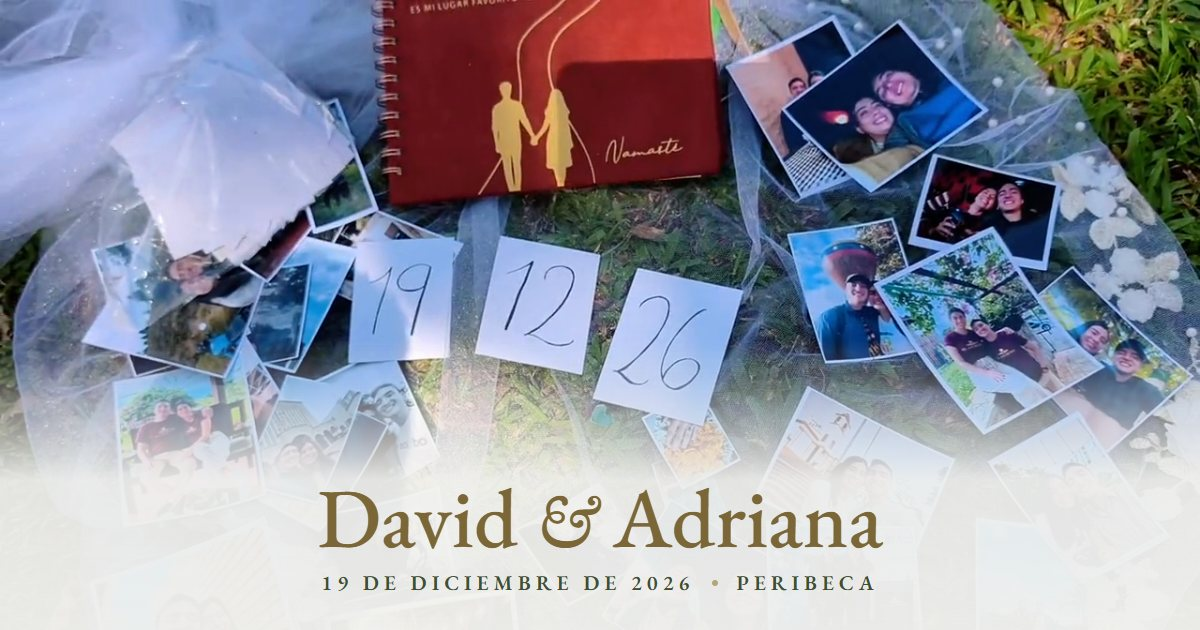
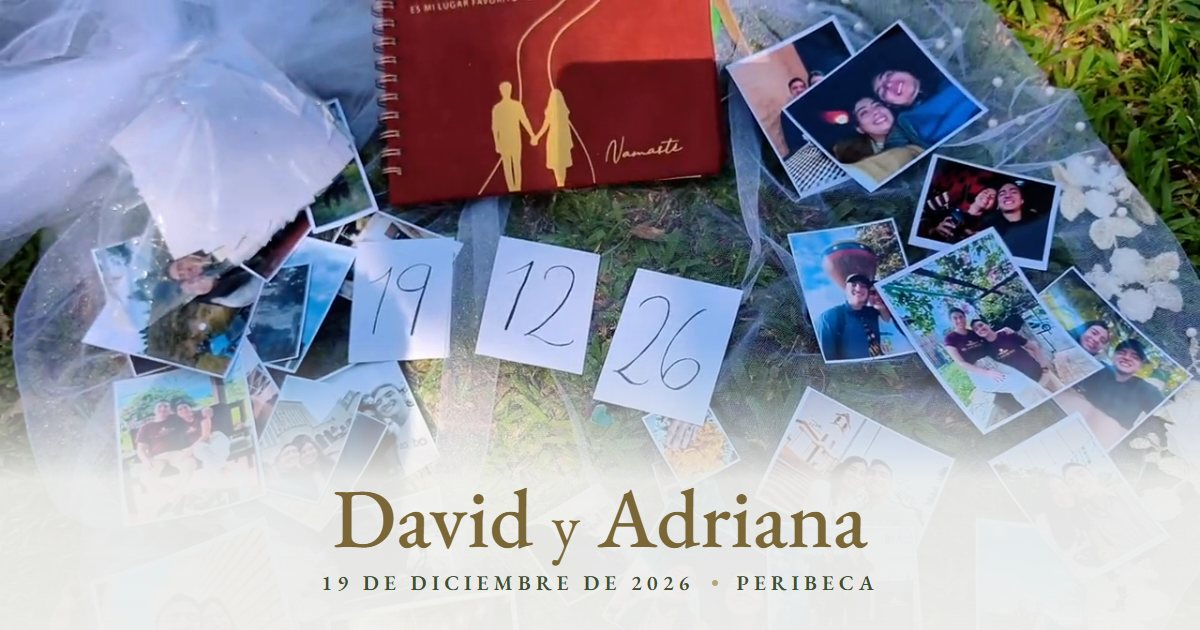
Nombres con «y» en vez del & decorativo

Changed region(s): [[0.2467, 0.754, 0.74, 0.8746]]

diff --git a/index.html b/index.html
@@ -44,8 +44,6 @@
 </script>
 <style>
 @font-face { font-family: "EB Garamond"; font-style: normal; font-weight: 400 600; font-display: swap; src: url("fuentes/eb-garamond-n400-600-latin.woff2") format("woff2"); unicode-range: U+0000-00FF, U+0131, U+0152-0153, U+02BB-02BC, U+02C6, U+02DA, U+02DC, U+0304, U+0308, U+0329, U+2000-206F, U+20AC, U+2122, U+2191, U+2193, U+2212, U+2215, U+FEFF, U+FFFD; }
-/* El único adorno tipográfico: el "&" de la cursiva de EB Garamond en los nombres (archivo de 1 KB con ese solo signo) */
-@font-face { font-family: "Et"; font-style: normal; font-weight: 400 600; font-display: block; src: url("fuentes/eb-garamond-et-i500.woff2") format("woff2"); unicode-range: U+0026; size-adjust: 85%; }
 /* Mynerve va recortada a las cifras escritas a mano de las tarjetas de la fecha */
 @font-face { font-family: "Mynerve"; font-style: normal; font-weight: 400; font-display: block; src: url("fuentes/mynerve-n400.woff2") format("woff2"); }
 
@@ -71,7 +69,6 @@
   --borde-campo: #938a6f;
   --sombra: 40, 36, 22;
   /* Nombres y títulos: la misma serif clara, derecha y sin cursiva, para que todo se lea bien */
-  --f-script: "Et", "EB Garamond", Garamond, "Times New Roman", serif;
   --f-serif: "EB Garamond", Garamond, "Times New Roman", serif;
   --f-mano: "Mynerve", "Segoe Print", "Bradley Hand", cursive;
   --gutter: clamp(16px, 5vw, 32px);
@@ -165,7 +162,7 @@ button { font: inherit; }
 .sobre .q5 { width: 16px; height: 16px; bottom: 7%; right: 12%; --t: 11s; --dx: -4px; --dy: -8px; --r: -6s; }
 .sobre-contenido { position: relative; display: grid; justify-items: center; gap: clamp(.7rem, 2.4vh, 1.3rem); gap: clamp(.7rem, 2.4svh, 1.3rem); width: 100%; max-width: 24rem; text-align: center; }
 .sobre-aviso { margin: 0; font-weight: 600; font-size: .875rem; letter-spacing: .24em; padding-left: .24em; text-transform: uppercase; color: var(--oro-texto); }
-.sobre-nombres { margin: -.1em 0 0; font-family: var(--f-script); font-weight: 500; font-size: clamp(2.1rem, 9.6vw, 3rem); line-height: 1.15; color: var(--oro-titulo); }
+.sobre-nombres { margin: -.1em 0 0; font-family: var(--f-serif); font-weight: 500; font-size: clamp(2.1rem, 9.6vw, 3rem); line-height: 1.15; color: var(--oro-titulo); }
 .sobre-fecha { margin: 0; font-family: var(--f-mano); font-size: 1.25rem; line-height: 1; color: var(--verde-suave); }
 
 .env { position: relative; width: min(78vw, 20rem); width: min(78vw, 20rem, calc((100vh - 18.5rem) * 1.42)); width: min(78vw, 20rem, calc((100svh - 18.5rem) * 1.42)); aspect-ratio: 1.42; margin-block: .35rem; cursor: pointer; container-type: inline-size; }
@@ -187,7 +184,7 @@ button { font: inherit; }
   background: #fffdf8; border-radius: 2px; box-shadow: 0 1px 4px rgba(var(--sombra), .2);
 }
 /* Medidas internas del sobre relativas a su ancho (cqi), para que todo escale junto en cualquier pantalla */
-.env-carta-nombres { font-family: var(--f-script); font-weight: 500; font-size: 1.3rem; font-size: 6.6cqi; line-height: 1.25; color: var(--oro-titulo); }
+.env-carta-nombres { font-family: var(--f-serif); font-weight: 500; font-size: 1.3rem; font-size: 6.6cqi; line-height: 1.25; color: var(--oro-titulo); }
 .env-carta-fecha { font-family: var(--f-mano); font-size: 1rem; font-size: 5.2cqi; color: var(--tinta); }
 .env-solapa { z-index: 4; transform-origin: 50% 0; transform-style: preserve-3d; }
 .env-solapa::before, .env-solapa::after {
@@ -208,7 +205,7 @@ button { font: inherit; }
   border-radius: 47% 53% 51% 49% / 52% 47% 53% 48%;
   background: radial-gradient(circle at 36% 30%, #b2434d 0%, #8d222e 28%, #6e1420 58%, #4a0b13 100%);
   box-shadow: inset 0 0 0 .3rem rgba(54, 6, 10, .3), inset 0 0 0 .38rem rgba(255, 220, 200, .08), inset 0 -.3rem .5rem rgba(0, 0, 0, .2), 0 3px 7px rgba(54, 6, 10, .4), 0 1px 1px rgba(54, 6, 10, .35);
-  font-family: var(--f-script); font-weight: 600; font-size: clamp(1rem, 4.8vw, 1.2rem); font-size: 6.2cqi; line-height: 1; letter-spacing: .02em;
+  font-family: var(--f-serif); font-weight: 600; font-size: clamp(1rem, 4.8vw, 1.2rem); font-size: 6.2cqi; line-height: 1; letter-spacing: .02em;
   color: #e8d09a; text-shadow: 0 1px 0 rgba(40, 4, 8, .65), 0 -1px 0 rgba(255, 228, 190, .2);
 }
 #abrir-sobre { margin-top: .2rem; }
@@ -239,12 +236,14 @@ button { font: inherit; }
 .p6 { width: 10px; height: 10px; top: 30%; right: 6%; --t: 8.5s; --dx: -3px; --dy: -8px; --r: -3s; --e: .5s; }
 .portada-texto { position: relative; width: 100%; margin-top: auto; }
 .nombres {
-  font-family: var(--f-script); font-weight: 500;
+  font-family: var(--f-serif); font-weight: 500;
   font-size: clamp(3rem, 17vw, 6.4rem); font-size: clamp(3rem, min(17vw, 8.6vh), 6.4rem); font-size: clamp(3rem, min(17vw, 8.6svh), 6.4rem); line-height: 1.1;
   color: var(--oro-titulo); margin: 0; outline: none;
 }
 .nombres .linea, .nombres .y { display: block; width: fit-content; margin-inline: auto; }
-.nombres .y { font-size: .58em; line-height: 1; margin-block: .02em .12em; }
+/* La "y" entre los nombres, pequeña y entre dos filetes dorados */
+.nombres .y { display: flex; align-items: center; gap: .4em; font-size: .5em; font-weight: 400; line-height: 1; margin-block: .06em .14em; }
+.nombres .y::before, .nombres .y::after { content: ""; width: 1.5em; height: 1px; background: var(--oro); }
 .portada .filete { margin-block: clamp(.7rem, 1.8vh, 1.1rem); margin-block: clamp(.7rem, 1.8svh, 1.1rem); }
 .fecha {
   font-family: var(--f-serif); font-weight: 500; font-size: clamp(.95rem, 4.2vw, 1.3rem); line-height: 1.5;
@@ -352,7 +351,7 @@ html:not(.js) .marco { padding-bottom: var(--marco); }
 }
 .vestimenta .col { position: relative; }
 .vestimenta h2 {
-  font-family: var(--f-script); font-weight: 500; font-size: clamp(2.4rem, 10.6vw, 3.5rem); line-height: 1.1;
+  font-family: var(--f-serif); font-weight: 500; font-size: clamp(2.4rem, 10.6vw, 3.5rem); line-height: 1.1;
   color: var(--oro-claro); margin: -.2em -.3em -.3em; padding: .2em .3em .3em; text-wrap: balance;
 }
 .estilo { font-weight: 600; font-size: 1rem; letter-spacing: .2em; padding-left: .2em; text-transform: uppercase; color: var(--oro-claro); margin: .8rem 0 0; }
@@ -420,7 +419,7 @@ html:not(.js) .marco { padding-bottom: var(--marco); }
 
 /* Pie */
 .pie { text-align: center; padding-block: .5rem max(3.5rem, calc(2rem + env(safe-area-inset-bottom, 0px))); }
-.firma { width: fit-content; margin: 0 auto; padding-inline: .3em; font-family: var(--f-script); font-weight: 500; font-size: clamp(2.2rem, 10vw, 3.1rem); line-height: 1.2; color: var(--oro-titulo); }
+.firma { width: fit-content; margin: 0 auto; padding-inline: .3em; font-family: var(--f-serif); font-weight: 500; font-size: clamp(2.2rem, 10vw, 3.1rem); line-height: 1.2; color: var(--oro-titulo); }
 .pie-fecha { margin: .2rem 0 0; font-weight: 500; font-size: .875rem; letter-spacing: .22em; padding-left: .22em; text-transform: uppercase; color: var(--verde-suave); }
 
 /* Accesos flotantes: "Confirmar" entre la portada y la confirmación; la música cuando el video ya no se ve */
@@ -468,7 +467,8 @@ html:not(.js) .marco { padding-bottom: var(--marco); }
   .bajar { grid-area: 2 / 1; margin: 0; padding-top: .25rem; }
   .nombres { font-size: clamp(2.2rem, min(5.2vw, 11vh), 3.4rem); font-size: clamp(2.2rem, min(5.2vw, 11svh), 3.4rem); }
   .nombres .linea, .nombres .y { display: inline-block; }
-  .nombres .y { font-size: .8em; margin-block: 0; }
+  .nombres .y { font-size: .75em; margin-block: 0; }
+  .nombres .y::before, .nombres .y::after { display: none; }
   .sobre-contenido {
     grid-template-columns: auto minmax(0, 1fr); grid-template-areas: "env aviso" "env nombres" "env boton" "env fecha";
     column-gap: clamp(1.5rem, 5vw, 3rem); row-gap: .55rem; max-width: 48rem; align-items: center;
@@ -679,10 +679,10 @@ html:not(.js) .marco { padding-bottom: var(--marco); }
   <span class="perla q5" aria-hidden="true"></span>
   <div class="sobre-contenido">
     <p class="sobre-aviso" id="sobre-aviso">Tienes una invitación</p>
-    <p class="sobre-nombres" id="sobre-titulo">David &amp; Adriana</p>
+    <p class="sobre-nombres" id="sobre-titulo">David y Adriana</p>
     <div class="env" id="env" aria-hidden="true">
       <span class="env-fondo"></span>
-      <span class="env-carta"><span class="env-carta-nombres">David &amp; Adriana</span><span class="env-carta-fecha">19 · 12 · 26</span></span>
+      <span class="env-carta"><span class="env-carta-nombres">David y Adriana</span><span class="env-carta-fecha">19 · 12 · 26</span></span>
       <span class="env-solapa"></span>
       <span class="env-bolsillo"><span class="env-izq"></span><span class="env-der"></span><span class="env-abajo"></span></span>
       <span class="sello">D&amp;A</span>
@@ -705,7 +705,7 @@ html:not(.js) .marco { padding-bottom: var(--marco); }
     <span class="perla p6" aria-hidden="true"></span>
 
     <div class="portada-texto col">
-      <h1 class="nombres" tabindex="-1"><span class="linea l1">David</span> <span class="y">&amp;</span> <span class="linea l2">Adriana</span></h1>
+      <h1 class="nombres" tabindex="-1"><span class="linea l1">David</span> <span class="y">y</span> <span class="linea l2">Adriana</span></h1>
       <div class="filete" aria-hidden="true"><span></span></div>
       <p class="fecha">19 de diciembre de 2026</p>
     </div>
@@ -886,7 +886,7 @@ html:not(.js) .marco { padding-bottom: var(--marco); }
 
   <footer class="pie col" data-revelar>
     <div class="filete" aria-hidden="true"><span></span></div>
-    <p class="firma">David &amp; Adriana</p>
+    <p class="firma">David y Adriana</p>
     <p class="pie-fecha">19 de diciembre de 2026</p>
   </footer>
 </main>
